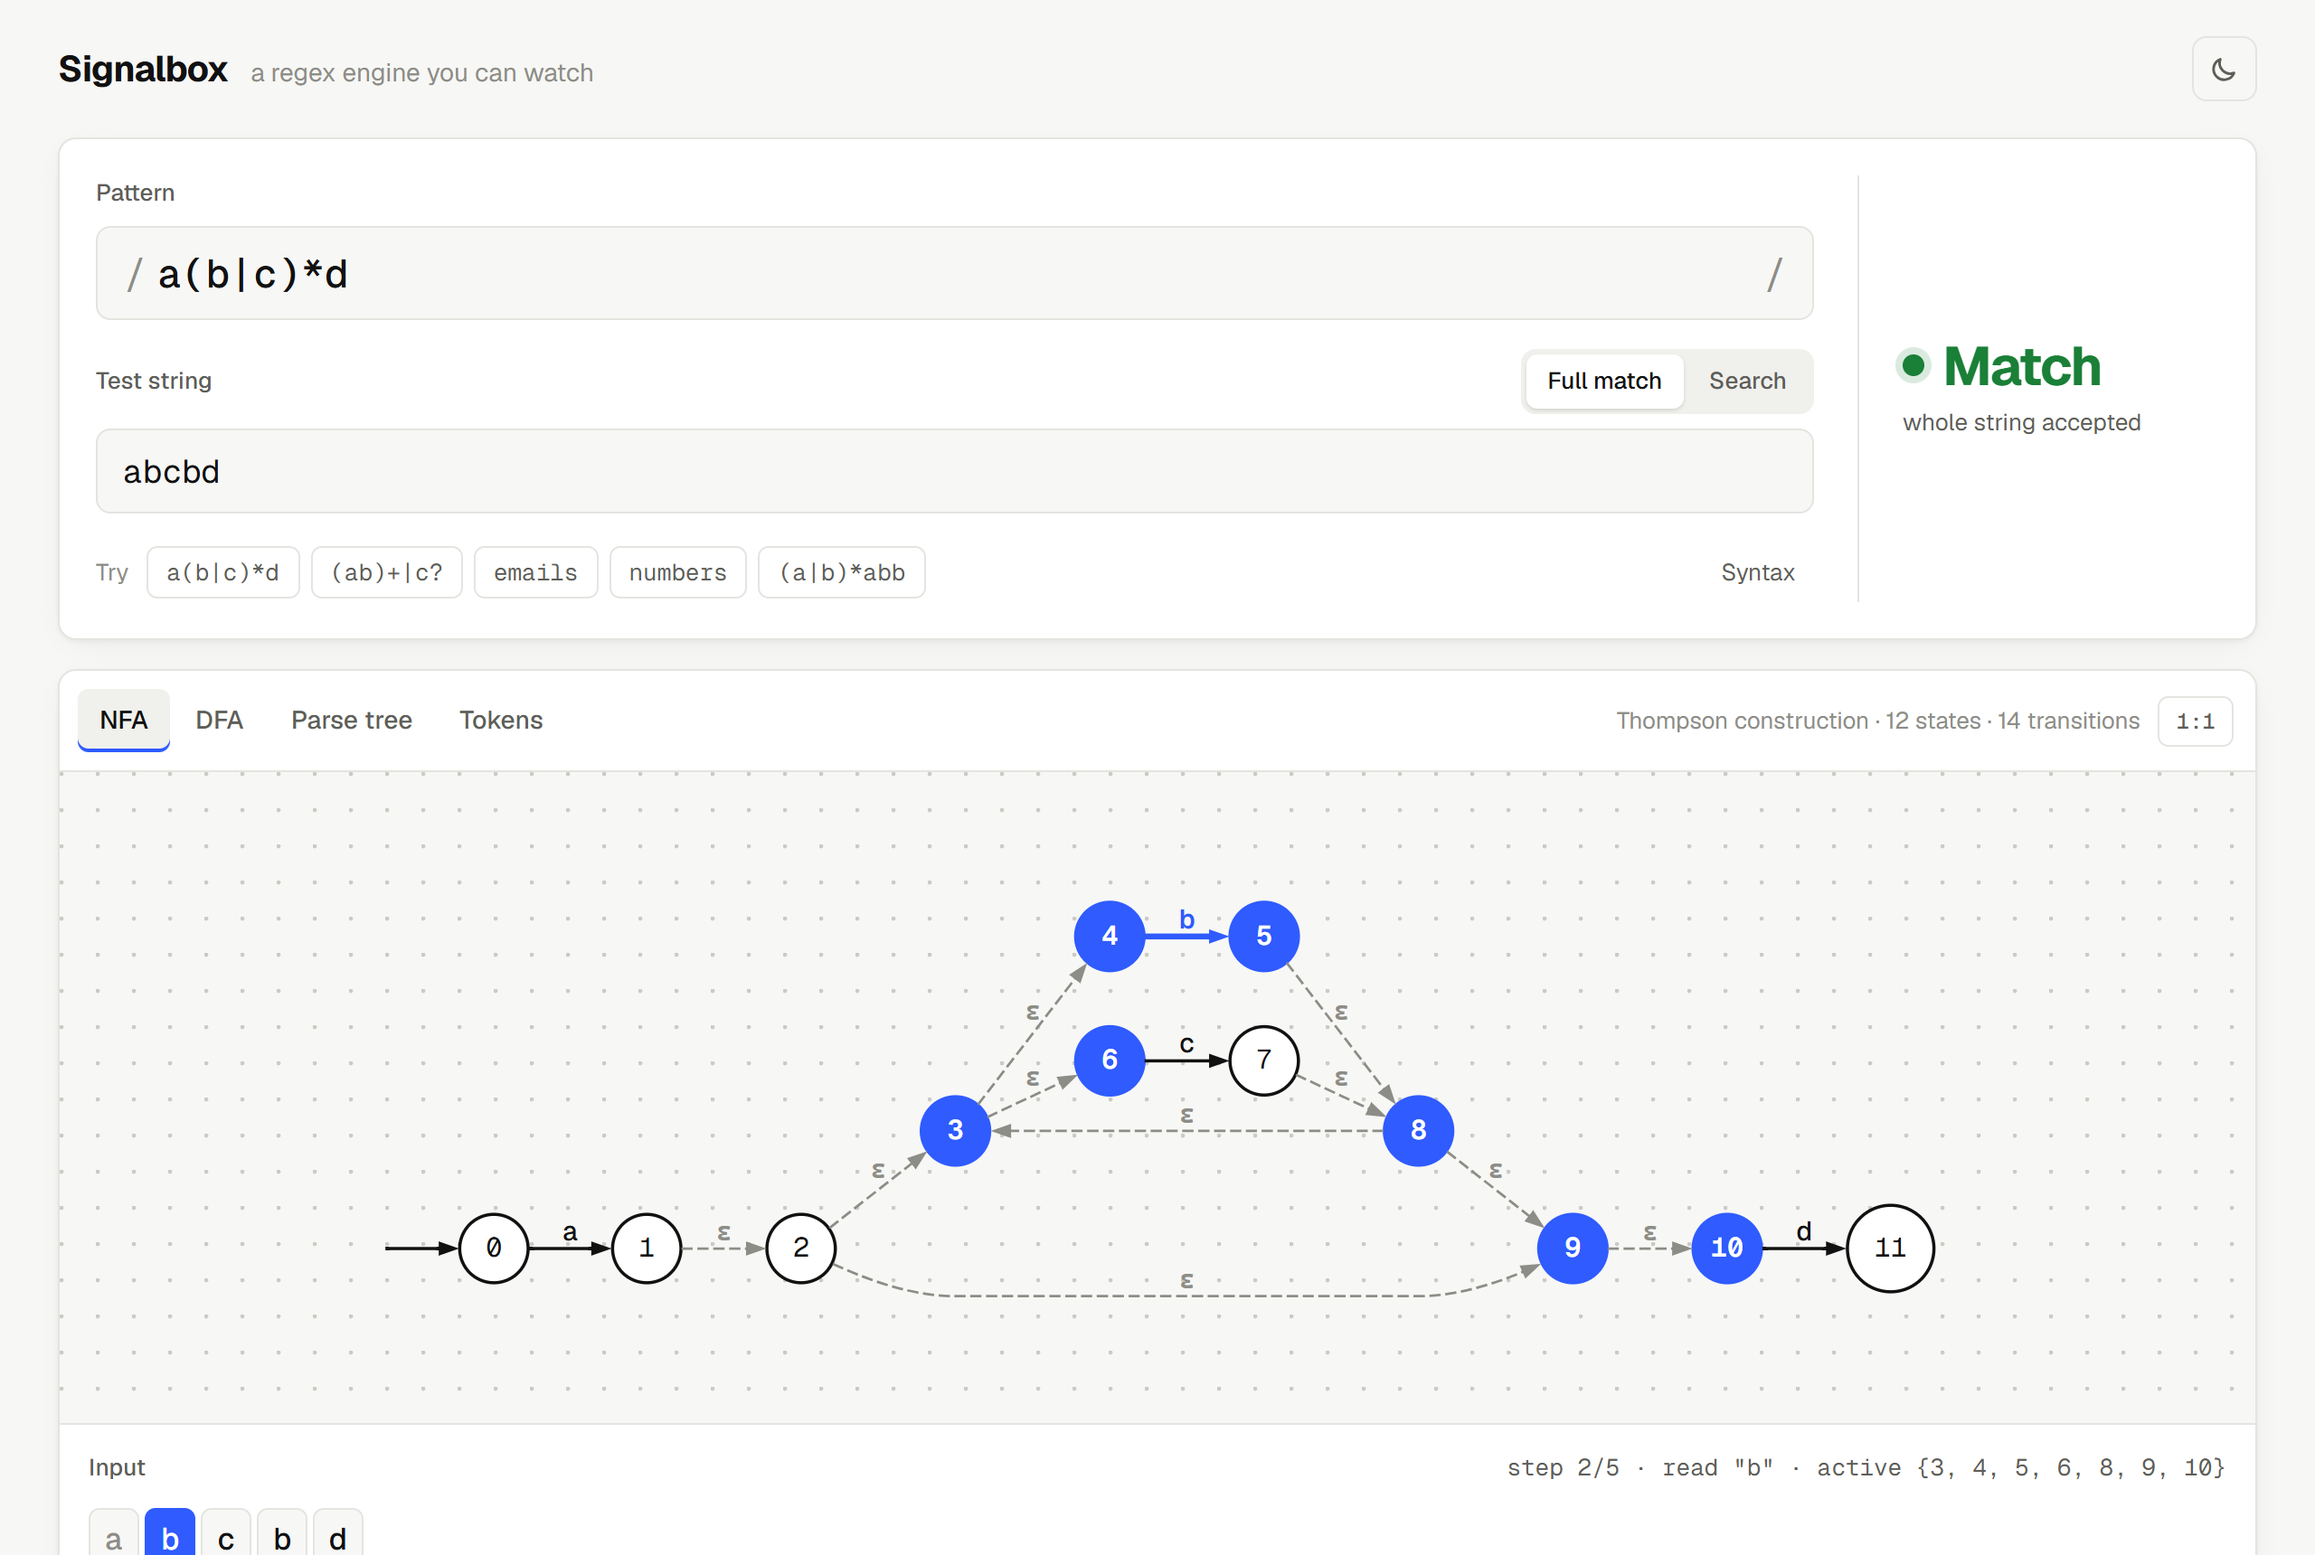
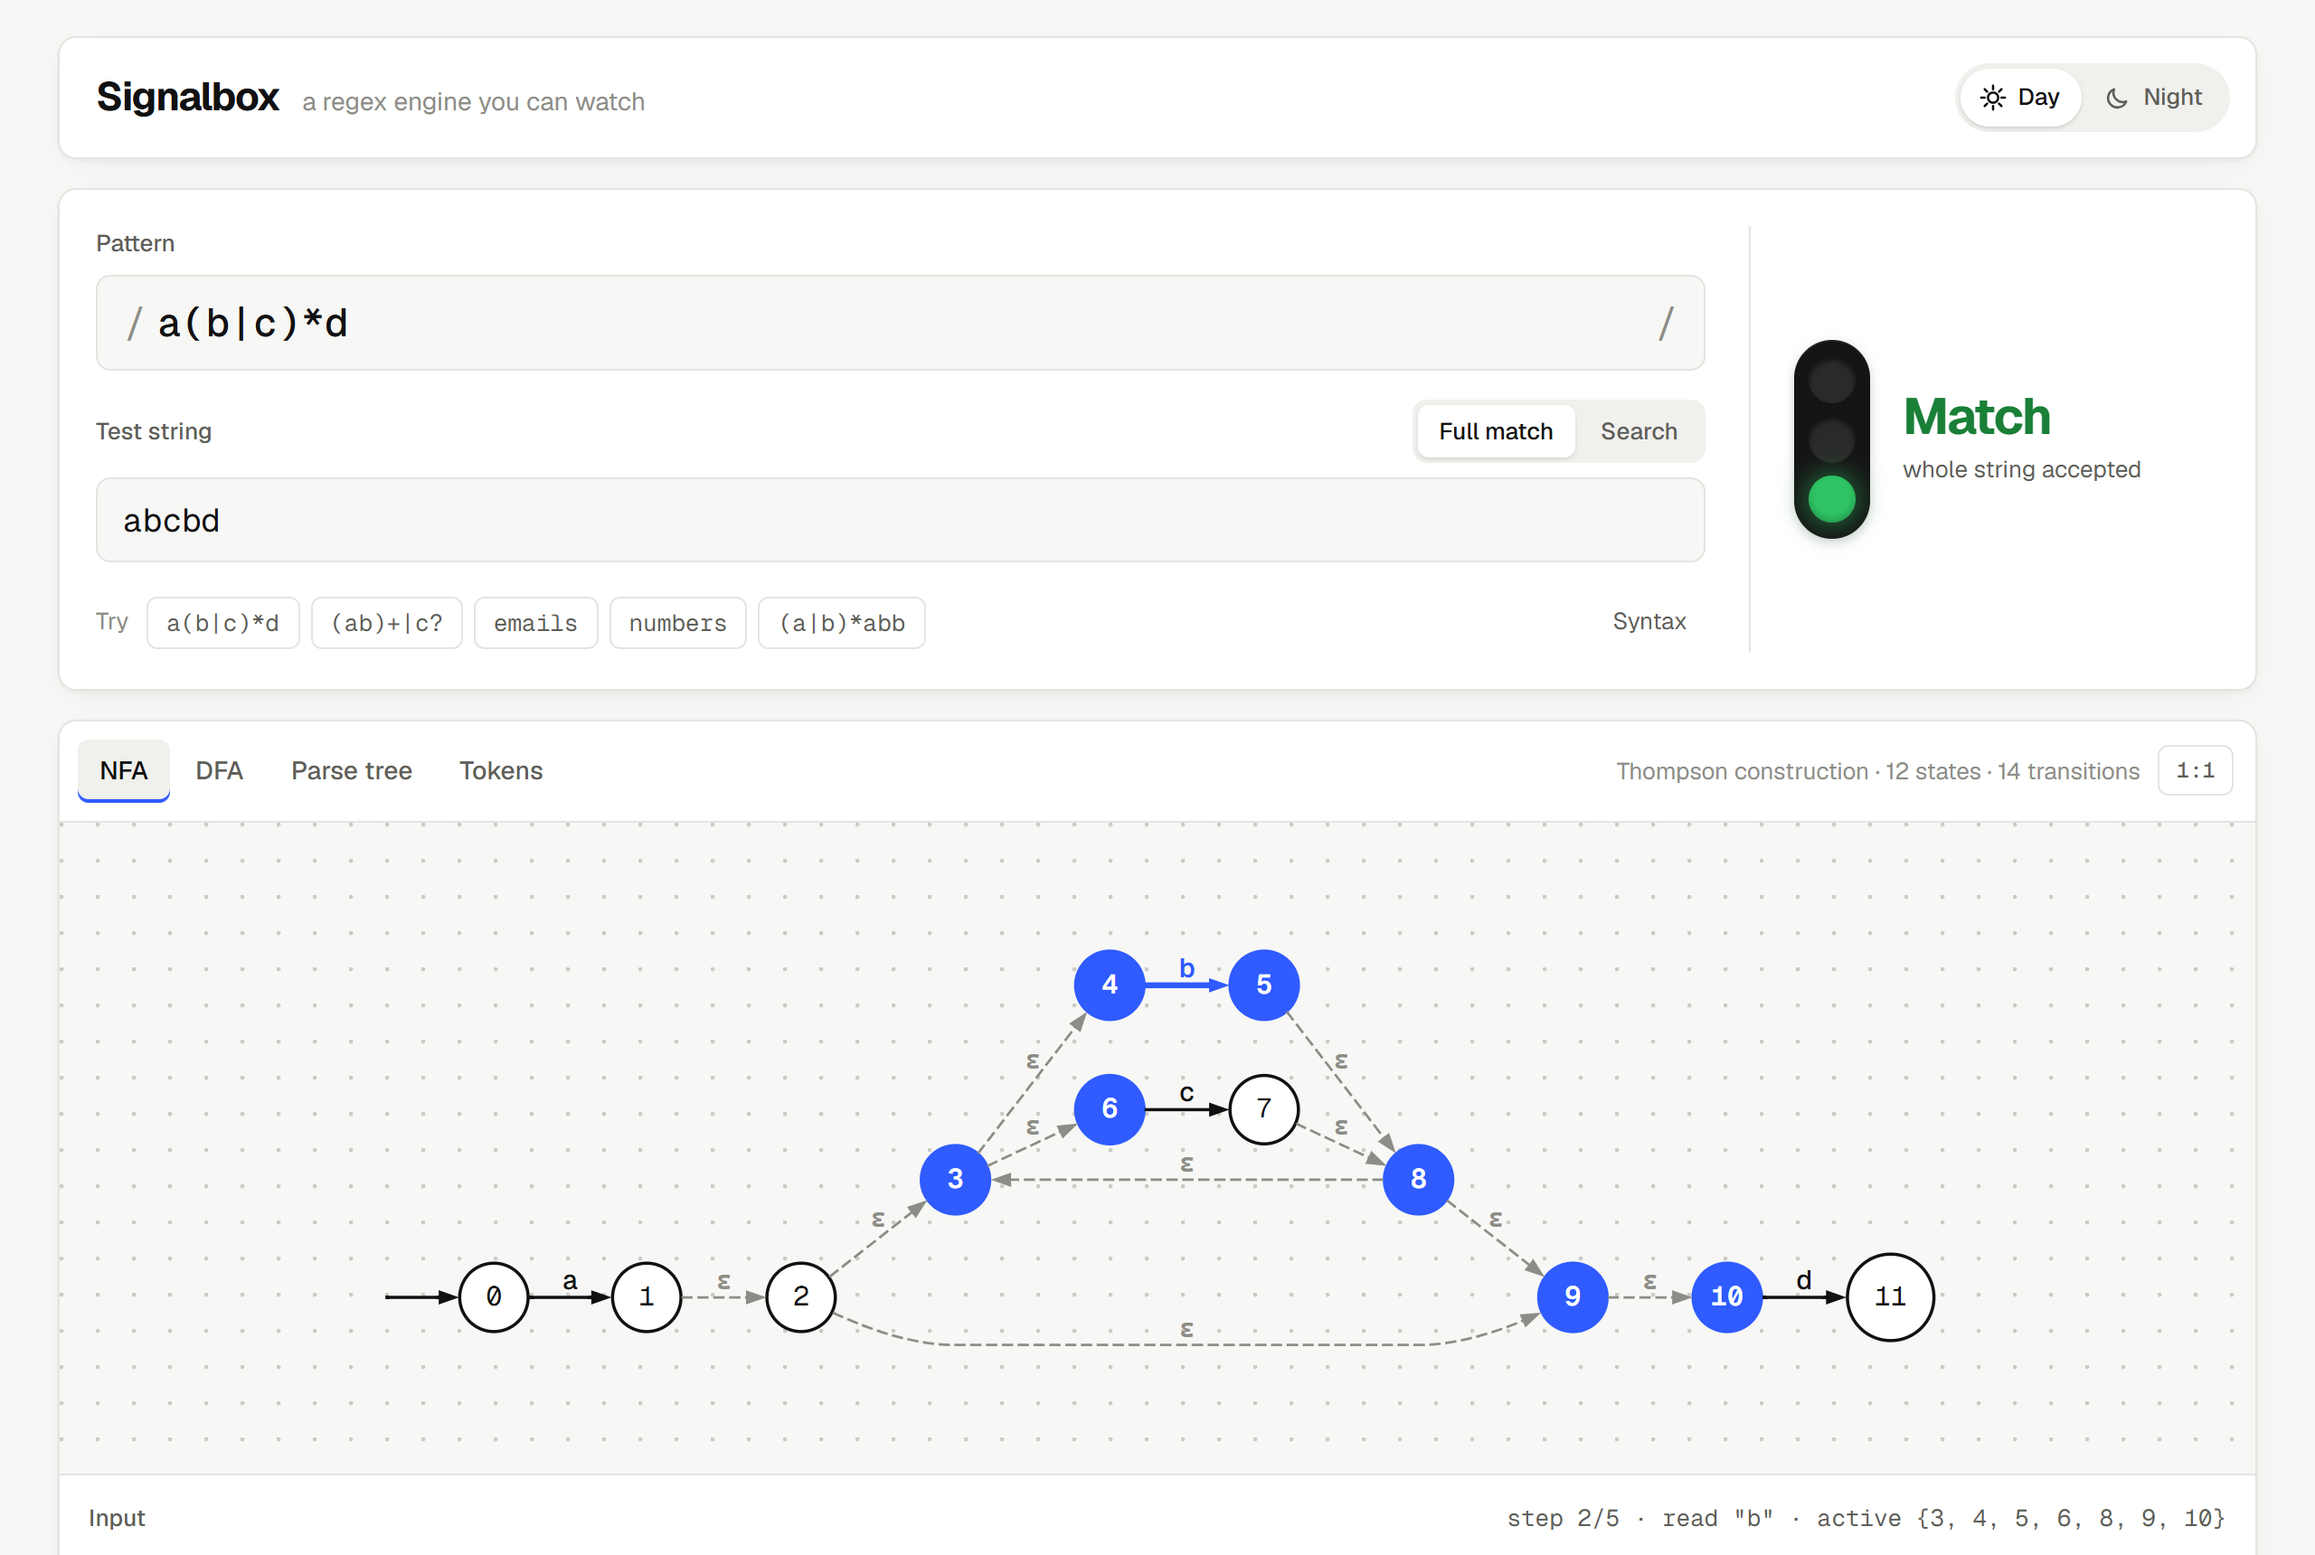
Bring back the traffic-light verdict; header as its own panel with Day/Night switch

diff --git a/app/static/style.css b/app/static/style.css
@@ -88,29 +88,41 @@ button:disabled { cursor: not-allowed; opacity: .35; }
 /* ---------- top bar ---------- */
 .topbar {
   display: flex; align-items: center; justify-content: space-between; gap: 16px;
-  max-width: 1280px; margin: 0 auto;
-  padding: 20px clamp(16px, 3vw, 32px) 4px;
+  padding: 14px 14px 14px 20px;
+  background: var(--surface);
+  border: 1px solid var(--line);
+  border-radius: var(--radius);
+  box-shadow: var(--shadow);
 }
 .brand { display: flex; align-items: baseline; gap: 12px; flex-wrap: wrap; min-width: 0; }
-.brand-name { font-size: 20px; font-weight: 700; letter-spacing: -0.02em; }
+.brand-name { font-size: 22px; font-weight: 700; letter-spacing: -0.03em; }
 .brand-sub { font-size: 14px; color: var(--ink-faint); }
-.icon-btn {
-  display: grid; place-items: center; width: 36px; height: 36px;
-  background: transparent; border: 1px solid var(--line); border-radius: 8px; color: var(--ink-soft);
-  transition: color .15s, border-color .15s, background-color .15s;
+
+.daynight {
+  display: inline-flex; padding: 3px; gap: 2px; flex: none;
+  background: var(--sunk); border-radius: 999px;
 }
-.icon-btn:hover { color: var(--ink); border-color: var(--line-strong); background: var(--surface); }
+.daynight button {
+  display: inline-flex; align-items: center; gap: 6px;
+  border: 0; background: transparent;
+  padding: 6px 12px 6px 10px; border-radius: 999px;
+  font-size: 13px; font-weight: 500; color: var(--ink-soft);
+  transition: color .15s, background-color .2s, box-shadow .2s;
+}
+.daynight button .icon { width: 16px; height: 16px; }
+.daynight button:hover { color: var(--ink); }
+.daynight button[aria-checked="true"] { background: var(--surface); color: var(--ink); box-shadow: 0 1px 2px rgba(0,0,0,.14); }
 
 /* ---------- layout ---------- */
 main {
   display: flex; flex-direction: column; gap: 16px;
   max-width: 1280px; margin: 0 auto;
-  padding: 16px clamp(16px, 3vw, 32px) 8px;
+  padding: 20px clamp(16px, 3vw, 32px) 8px;
 }
 
 /* ---------- desk ---------- */
 .desk {
-  display: grid; grid-template-columns: minmax(0, 1fr) 200px; gap: 24px;
+  display: grid; grid-template-columns: minmax(0, 1fr) 260px; gap: 24px;
   padding: 20px;
   background: var(--surface);
   border: 1px solid var(--line);
@@ -198,8 +210,7 @@ main {
 
 /* ---------- verdict ---------- */
 .verdict {
-  display: grid; grid-template-columns: auto 1fr; align-content: center; align-items: center;
-  column-gap: 10px; row-gap: 6px;
+  display: flex; align-items: center; gap: 18px;
   padding-left: 24px;
   border-left: 1px solid var(--line);
   --tone: var(--ink-faint);
@@ -207,14 +218,29 @@ main {
 .verdict[data-aspect="green"] { --tone: var(--ok); }
 .verdict[data-aspect="red"] { --tone: var(--fail); }
 .verdict[data-aspect="yellow"] { --tone: var(--warn); }
-.verdict-dot {
-  width: 12px; height: 12px; border-radius: 50%;
-  background: var(--tone);
-  box-shadow: 0 0 0 4px color-mix(in srgb, var(--tone) 16%, transparent);
-  transition: background-color .25s, box-shadow .25s;
+.verdict-text { display: flex; flex-direction: column; gap: 4px; min-width: 0; }
+.verdict-word { font-size: 28px; font-weight: 650; letter-spacing: -0.03em; line-height: 1.05; color: var(--tone); transition: color .25s; }
+.verdict-detail { font-size: 13px; color: var(--ink-soft); }
+
+/* traffic light */
+.signal-head {
+  display: flex; flex-direction: column; gap: 7px; flex: none;
+  padding: 9px 8px;
+  background: #141414;
+  border-radius: 22px;
+  box-shadow: inset 0 1px 0 rgba(255,255,255,.06), 0 2px 6px rgba(0,0,0,.18);
 }
-.verdict-word { font-size: 30px; font-weight: 650; letter-spacing: -0.03em; line-height: 1.05; color: var(--tone); transition: color .25s; }
-.verdict-detail { grid-column: 1 / -1; font-size: 13px; color: var(--ink-soft); }
+:root[data-theme="dark"] .signal-head { background: #050505; box-shadow: inset 0 0 0 1px #2a2a2e; }
+@media (prefers-color-scheme: dark) { :root:not([data-theme="light"]) .signal-head { background: #050505; box-shadow: inset 0 0 0 1px #2a2a2e; } }
+.aspect {
+  width: 26px; height: 26px; border-radius: 50%;
+  background: #2a2a2a;
+  box-shadow: inset 0 2px 3px rgba(0,0,0,.6);
+  transition: background-color .25s ease-out, box-shadow .25s ease-out;
+}
+.verdict[data-aspect="red"] .aspect.red { background: #f0443a; box-shadow: 0 0 14px 2px rgba(240,68,58,.55), inset 0 -2px 4px rgba(0,0,0,.25); }
+.verdict[data-aspect="yellow"] .aspect.yellow { background: #f5b82e; box-shadow: 0 0 14px 2px rgba(245,184,46,.5), inset 0 -2px 4px rgba(0,0,0,.2); }
+.verdict[data-aspect="green"] .aspect.green { background: #2fc463; box-shadow: 0 0 14px 2px rgba(47,196,99,.5), inset 0 -2px 4px rgba(0,0,0,.2); }
 
 /* ---------- diagram panel ---------- */
 .panel {
@@ -371,12 +397,16 @@ main {
 @media (max-width: 760px) {
   .desk { grid-template-columns: minmax(0, 1fr); gap: 16px; padding: 16px; }
   .verdict {
-    order: -1; grid-template-columns: auto auto 1fr;
+    order: -1; gap: 14px;
     padding: 0 0 14px; border-left: 0; border-bottom: 1px solid var(--line);
   }
+  .signal-head { flex-direction: row; padding: 6px 8px; }
+  .aspect { width: 20px; height: 20px; }
   .verdict-word { font-size: 22px; }
-  .verdict-detail { grid-column: auto; text-align: right; }
   .brand-sub { display: none; }
+  .topbar { padding: 10px 10px 10px 16px; }
+  .daynight button span { display: none; }
+  .daynight button { padding: 6px 9px; }
   .panel-tools { justify-content: space-between; }
   .panel-caption { text-align: left; }
   .pattern-wrap input { font-size: 19px; }

diff --git a/app/static/app.js b/app/static/app.js
@@ -23,7 +23,6 @@
     next: $("btn-next"),
     first: $("btn-reset"),
     last: $("btn-end"),
-    themeBtn: $("theme-btn"),
     zoomBtn: $("zoom-btn"),
   };
 
@@ -51,21 +50,33 @@
     if (forced) return forced;
     return matchMedia("(prefers-color-scheme: dark)").matches ? "dark" : "light";
   }
+  const themeButtons = [...document.querySelectorAll(".daynight [role=radio]")];
   function applyThemeButton() {
-    const dark = currentTheme() === "dark";
-    const label = dark ? "Switch to light theme" : "Switch to dark theme";
-    els.themeBtn.setAttribute("aria-label", label);
-    els.themeBtn.title = label;
-    els.themeBtn.querySelector("use").setAttribute("href", dark ? "#i-sun" : "#i-moon");
+    const theme = currentTheme();
+    themeButtons.forEach((b) => {
+      const on = b.dataset.themeChoice === theme;
+      b.setAttribute("aria-checked", String(on));
+      b.tabIndex = on ? 0 : -1;
+    });
+  }
+  function setTheme(theme) {
+    document.documentElement.dataset.theme = theme;
+    storage.set("signalbox-theme", theme);
+    applyThemeButton();
   }
   const savedTheme = storage.get("signalbox-theme");
   if (savedTheme === "light" || savedTheme === "dark") document.documentElement.dataset.theme = savedTheme;
   applyThemeButton();
-  els.themeBtn.addEventListener("click", () => {
-    const next = currentTheme() === "dark" ? "light" : "dark";
-    document.documentElement.dataset.theme = next;
-    storage.set("signalbox-theme", next);
-    applyThemeButton();
+  themeButtons.forEach((b) => {
+    b.addEventListener("click", () => setTheme(b.dataset.themeChoice));
+    b.addEventListener("keydown", (e) => {
+      if (["ArrowLeft", "ArrowRight", "ArrowUp", "ArrowDown"].includes(e.key)) {
+        e.preventDefault();
+        const next = currentTheme() === "dark" ? "light" : "dark";
+        setTheme(next);
+        themeButtons.find((x) => x.dataset.themeChoice === next).focus();
+      }
+    });
   });
   matchMedia("(prefers-color-scheme: dark)").addEventListener("change", applyThemeButton);
 

diff --git a/app/static/index.html b/app/static/index.html
@@ -32,17 +32,22 @@
   </defs>
 </svg>
 
+<main>
 <header class="topbar">
   <div class="brand">
     <span class="brand-name">Signalbox</span>
     <span class="brand-sub">a regex engine you can watch</span>
   </div>
-  <button class="icon-btn" id="theme-btn" type="button" aria-label="Switch to dark theme">
-    <svg class="icon" aria-hidden="true"><use href="#i-moon"/></svg>
-  </button>
+  <div class="daynight" role="radiogroup" aria-label="Theme">
+    <button type="button" role="radio" aria-checked="true" data-theme-choice="light">
+      <svg class="icon" aria-hidden="true"><use href="#i-sun"/></svg><span>Day</span>
+    </button>
+    <button type="button" role="radio" aria-checked="false" data-theme-choice="dark">
+      <svg class="icon" aria-hidden="true"><use href="#i-moon"/></svg><span>Night</span>
+    </button>
+  </div>
 </header>
 
-<main>
   <section class="desk" aria-label="Pattern and test string">
     <div class="desk-inputs">
       <div class="field">
@@ -96,9 +101,15 @@
     </div>
 
     <div class="verdict" id="signal" aria-live="polite">
-      <span class="verdict-dot" aria-hidden="true"></span>
-      <span class="verdict-word" id="signal-word">—</span>
-      <span class="verdict-detail" id="signal-detail"></span>
+      <div class="signal-head" aria-hidden="true">
+        <span class="aspect red"></span>
+        <span class="aspect yellow"></span>
+        <span class="aspect green"></span>
+      </div>
+      <div class="verdict-text">
+        <span class="verdict-word" id="signal-word">—</span>
+        <span class="verdict-detail" id="signal-detail"></span>
+      </div>
     </div>
   </section>
 

diff --git a/DESIGN.md b/DESIGN.md
@@ -13,7 +13,7 @@
 | Accent `--accent` (active state, current step, focus) | cobalt `#2f5bff` | `#6d8bff` |
 | Result `--ok` / `--fail` / `--warn` | `#1a7f37` / `#cf222e` / `#9a6700` | `#3fb950` / `#f85149` / `#d29922` |
 
-Theme: follows `prefers-color-scheme`. The top-right button forces `data-theme` and saves the choice to localStorage.
+Theme: follows `prefers-color-scheme` until the visitor picks one. The **Day / Night** pill in the header panel sets `data-theme` and saves the choice to localStorage.
 
 ## Type
 
@@ -22,7 +22,9 @@ Theme: follows `prefers-color-scheme`. The top-right button forces `data-theme` 
 
 ## Components
 
-- **Desk**: the pattern and test-string inputs (sunk fields with a 3px cobalt focus ring), the Full match / Search segmented control, example chips and a "Syntax" popover. The verdict sits to the right: a coloured dot, a large word and a detail line. On phones it moves to the top as a single row.
+- **Header panel**: its own card at the top, holding the name, the tagline and the Day / Night pill. On phones the pill shows icons only.
+- **Desk**: the pattern and test-string inputs (sunk fields with a 3px cobalt focus ring), the Full match / Search segmented control, example chips and a "Syntax" popover.
+- **Traffic light (verdict)**: a near-black three-lamp signal head. Exactly one lamp glows: green for a match, red for no match or an invalid pattern, and yellow when search finds only empty matches. The verdict word and detail sit beside it in the same tone. It is vertical on desktop; on phones it is horizontal and moves to the top of the desk.
 - **Diagram panel**: tabs with a cobalt underline on the selected one, a caption, and a `1:1` zoom toggle. The canvas has a dotted ground. Graphviz SVG is restyled by CSS:
   - `.lit` nodes are filled cobalt; `.lit.accepting` nodes are green.
   - `.edge.taken` edges are cobalt.
